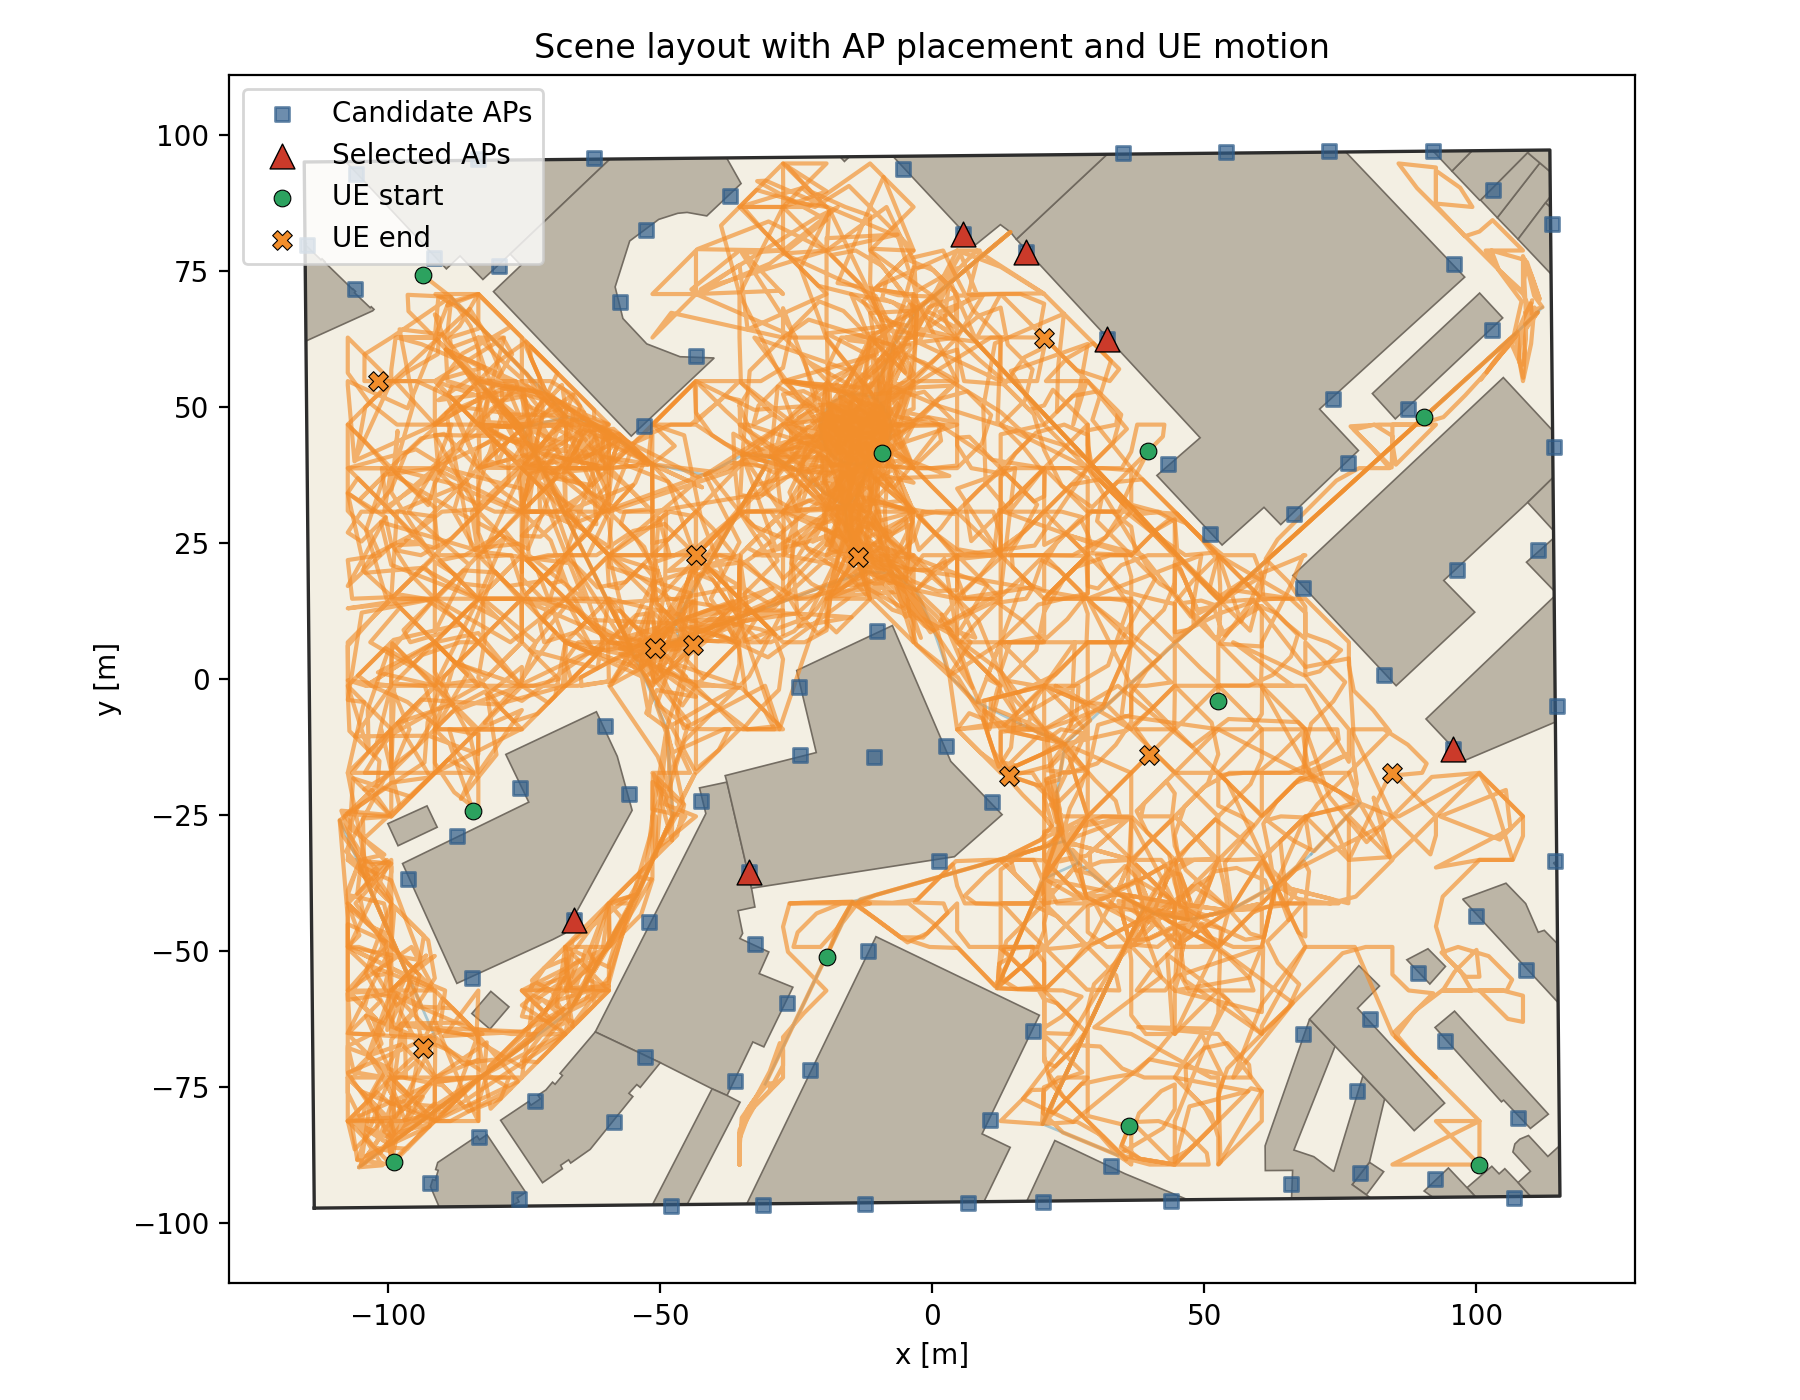
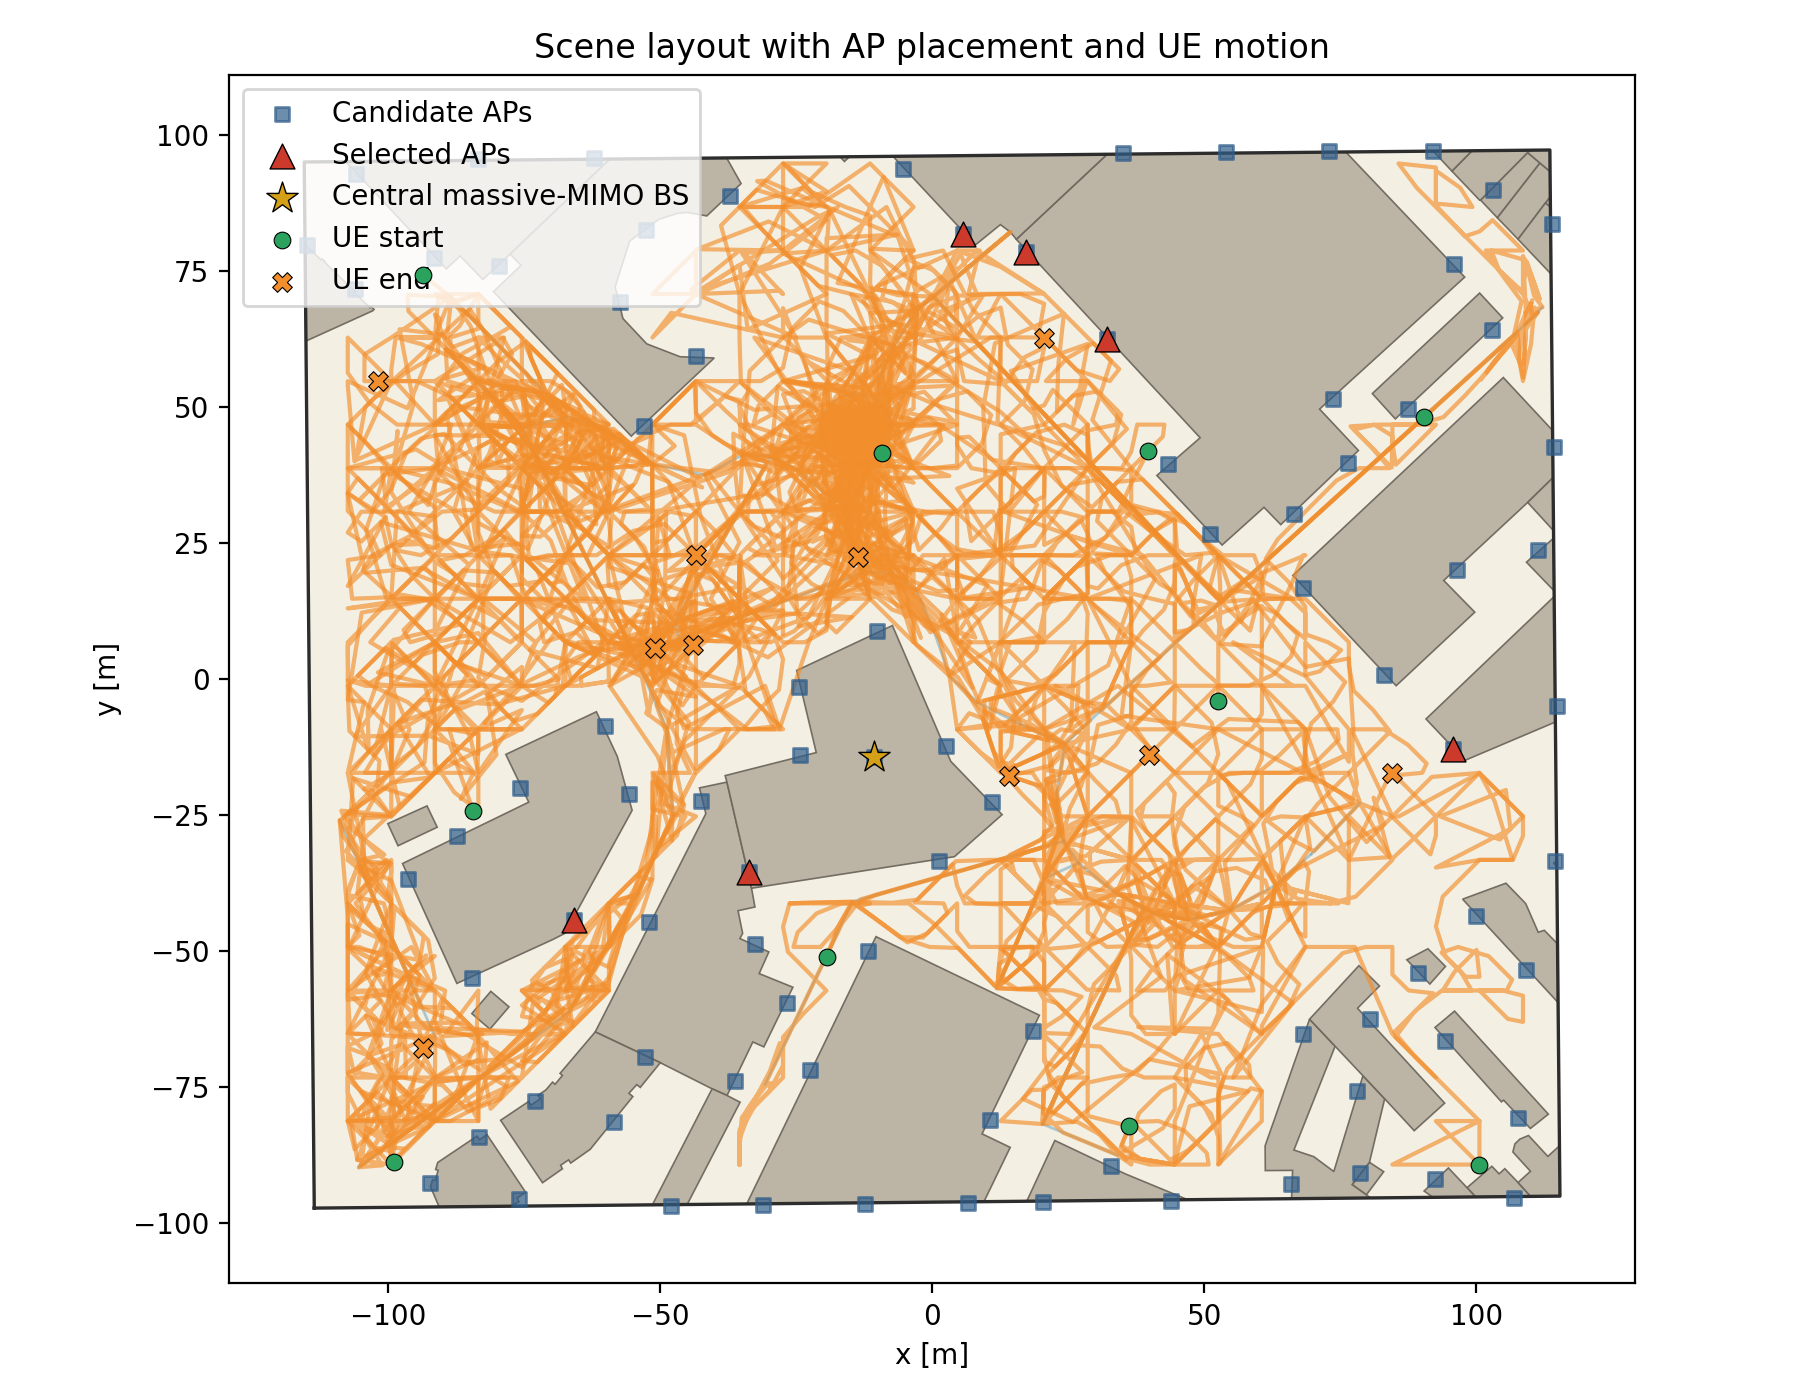
exp

Changed region(s): [[0.1244, 0.0921, 0.4044, 0.2457], [0.4667, 0.5221, 0.4978, 0.5529]]

diff --git a/outputs/rabot/scene_layout.tex b/outputs/rabot/scene_layout.tex
@@ -26,6 +26,8 @@
     \addlegendentry{Candidate APs}
     \addplot[only marks, mark=triangle*, mark size=3pt, color=DistributedMovableColor] table[x=x_m,y=y_m,col sep=comma] {tikz_data/scene_layout_selected_sites.csv};
     \addlegendentry{Selected APs}
+    \addplot[only marks, mark=star, mark size=4pt, color=CentralMassiveMimoColor, mark options={solid, fill=CentralMassiveMimoColor, draw=black}] table[x=x_m,y=y_m,col sep=comma] {tikz_data/scene_layout_central_massive_mimo.csv};
+    \addlegendentry{Central massive-MIMO BS}
     \addplot[only marks, mark=*, mark size=2.5pt, color=green!50!black] table[x=x_m,y=y_m,col sep=comma] {tikz_data/scene_layout_ue_start.csv};
     \addlegendentry{UE start}
     \addplot[only marks, mark=x, mark size=2.5pt, color=orange!85!black] table[x=x_m,y=y_m,col sep=comma] {tikz_data/scene_layout_ue_end.csv};
